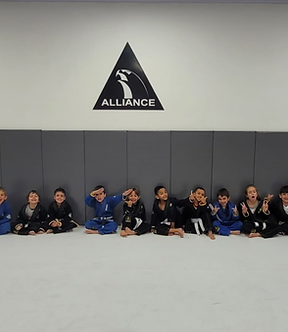
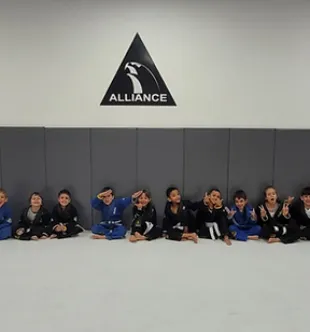
Modalidades

diff --git a/src/components/modalidades/Modalidades.vue b/src/components/modalidades/Modalidades.vue
@@ -9,27 +9,27 @@
     <div class="container boxes">
       <div class="row d-flex justify-content-between text-center">
         <div class="col-12 col-md">
-          <img src="./imgs/img1.webp" alt="" class="img-fluid mb-4">
+          <img src="./imgs/img1.webp" alt="" class="mb-4 img-fluid">
           <h2>Kids 1</h2>
           <p class="px-4">Crianças podem praticar o Jiu-Jitsu a partir dos 04 anos de idade. As crianças aprendem dentro de um ambiente seguro e a aula é feita de forma lúdica e divertida.</p>
         </div>
         <div class="col-12 col-md">
-          <img src="./imgs/img2.webp" alt="" class="img-fluid mb-4">
+          <img src="./imgs/img2.webp" alt="" class="mb-4 img-fluid">
           <h2>Kids 2</h2>
           <p class="px-4">Prática com crianças a partir dos 08 aos 14 anos de idade. As crianças aprendem dentro de um ambiente seguro e a aula é feita de forma objetiva e disciplinar.</p>
         </div>
         <div class="col-12 col-md">
-          <img src="./imgs/img3.webp" alt="" class="img-fluid mb-4">
+          <img src="./imgs/img3.webp" alt="" class="mb-4 img-fluid">
           <h2>Iniciantes</h2>
           <p class="px-4">Método exclusivo da Alliance. O iniciante aprenderá nessa fase todos os fundamentos do Jiu-Jitsu. Nesse módulo não existe disputa propriamente dita.</p>
         </div>
         <div class="col-12 col-md">
-          <img src="./imgs/img4.webp" alt="" class="img-fluid mb-4">
+          <img src="./imgs/img4.webp" alt="" class="mb-4 img-fluid">
           <h2>Intermediário</h2>
           <p class="px-4">Depois de passar pelo modo iniciante e aprender todas as técnicas e entender como funciona a luta o aluno passa a aprofundar seus conhecimentos e passa a treinar parcialmente.</p>
         </div>
         <div class="col-12 col-md">
-          <img src="./imgs/img5.webp" alt="" class="img-fluid mb-4">
+          <img src="./imgs/img5.webp" alt="" class="mb-4 img-fluid">
           <h2>Avançado</h2>
           <p class="px-4">Nessa fase o aluno passa a receber conteúdo de alto nível de conhecimento, com técnicas variadas e atualizadas.</p>
         </div>
@@ -70,10 +70,6 @@ export default {
   }
   .boxes {
     margin-top: -210px;
-    img {
-      width: 240px;
-      height: 260px;
-    }
   }
 }
 </style>

diff --git a/src/App.vue b/src/App.vue
@@ -1,20 +1,10 @@
 <template>
-  <Cookies />
-  <Transition>
-    <ModalDefault v-if="modalInfo.show" :modalInfo="modalInfo" />
-  </Transition>
-  <transition name="fade" mode="out-in">
-    <Loading v-if="loading" />
-  </transition>
   <Header />
   <RouterView />
   <Footer />
 </template>
 
 <script>
-import Cookies from '@/common/cookies/Cookies.vue'
-import ModalDefault from '@/common/modal/Default.vue'
-import Loading from '@/common/loading/Loading.vue'
 import Header from '@/common/header/Header.vue'
 import Footer from '@/common/footer/Footer.vue'
 import { RouterView } from 'vue-router'
@@ -24,24 +14,14 @@ export default {
     return {}
   },
   components: {
-    Cookies,
-    ModalDefault,
-    Loading,
     Header,
     Footer
   },
   computed: {
-    loading() {
-      return this.$store.state.manager.loading
-    },
-    modalInfo() {
-      return this.$store.state.manager.modalDefault
-    }
+    
   },
   mounted() {
-    // setTimeout(() => {
-    //   this.$store.commit('manager/SET_LOADING', false)
-    // }, 5000)
+    
   },
   watch: {}
 }
